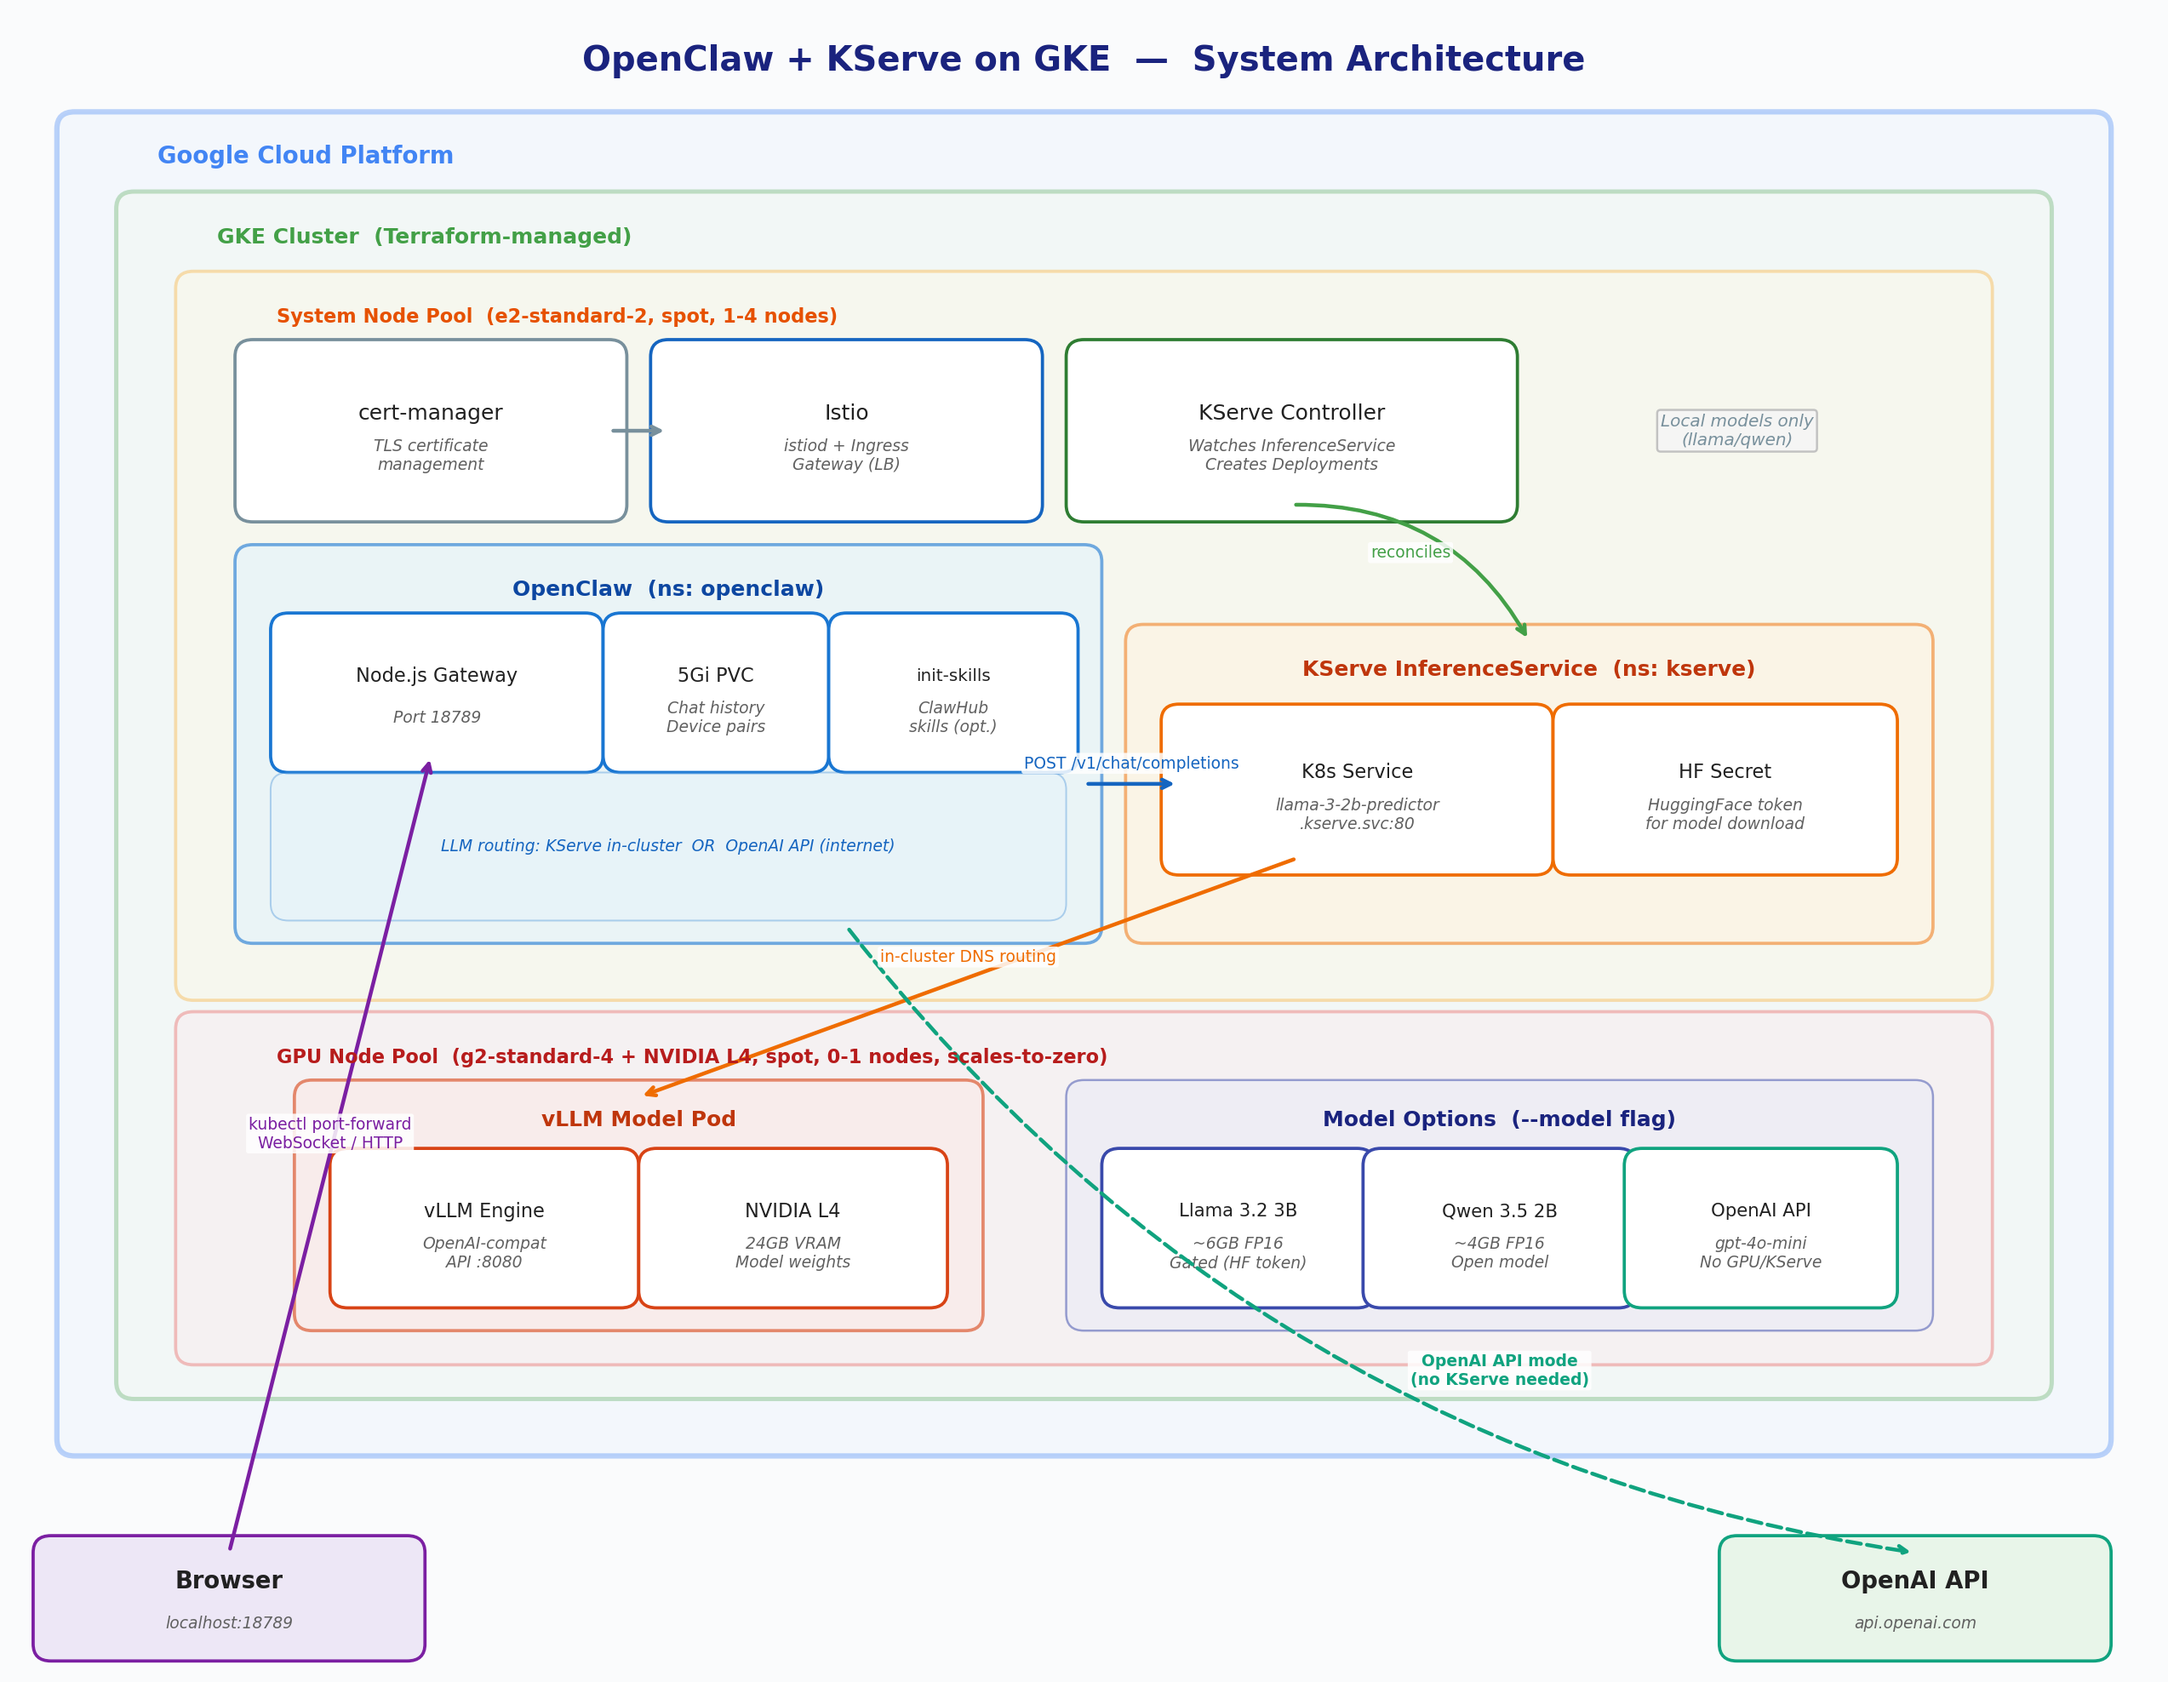
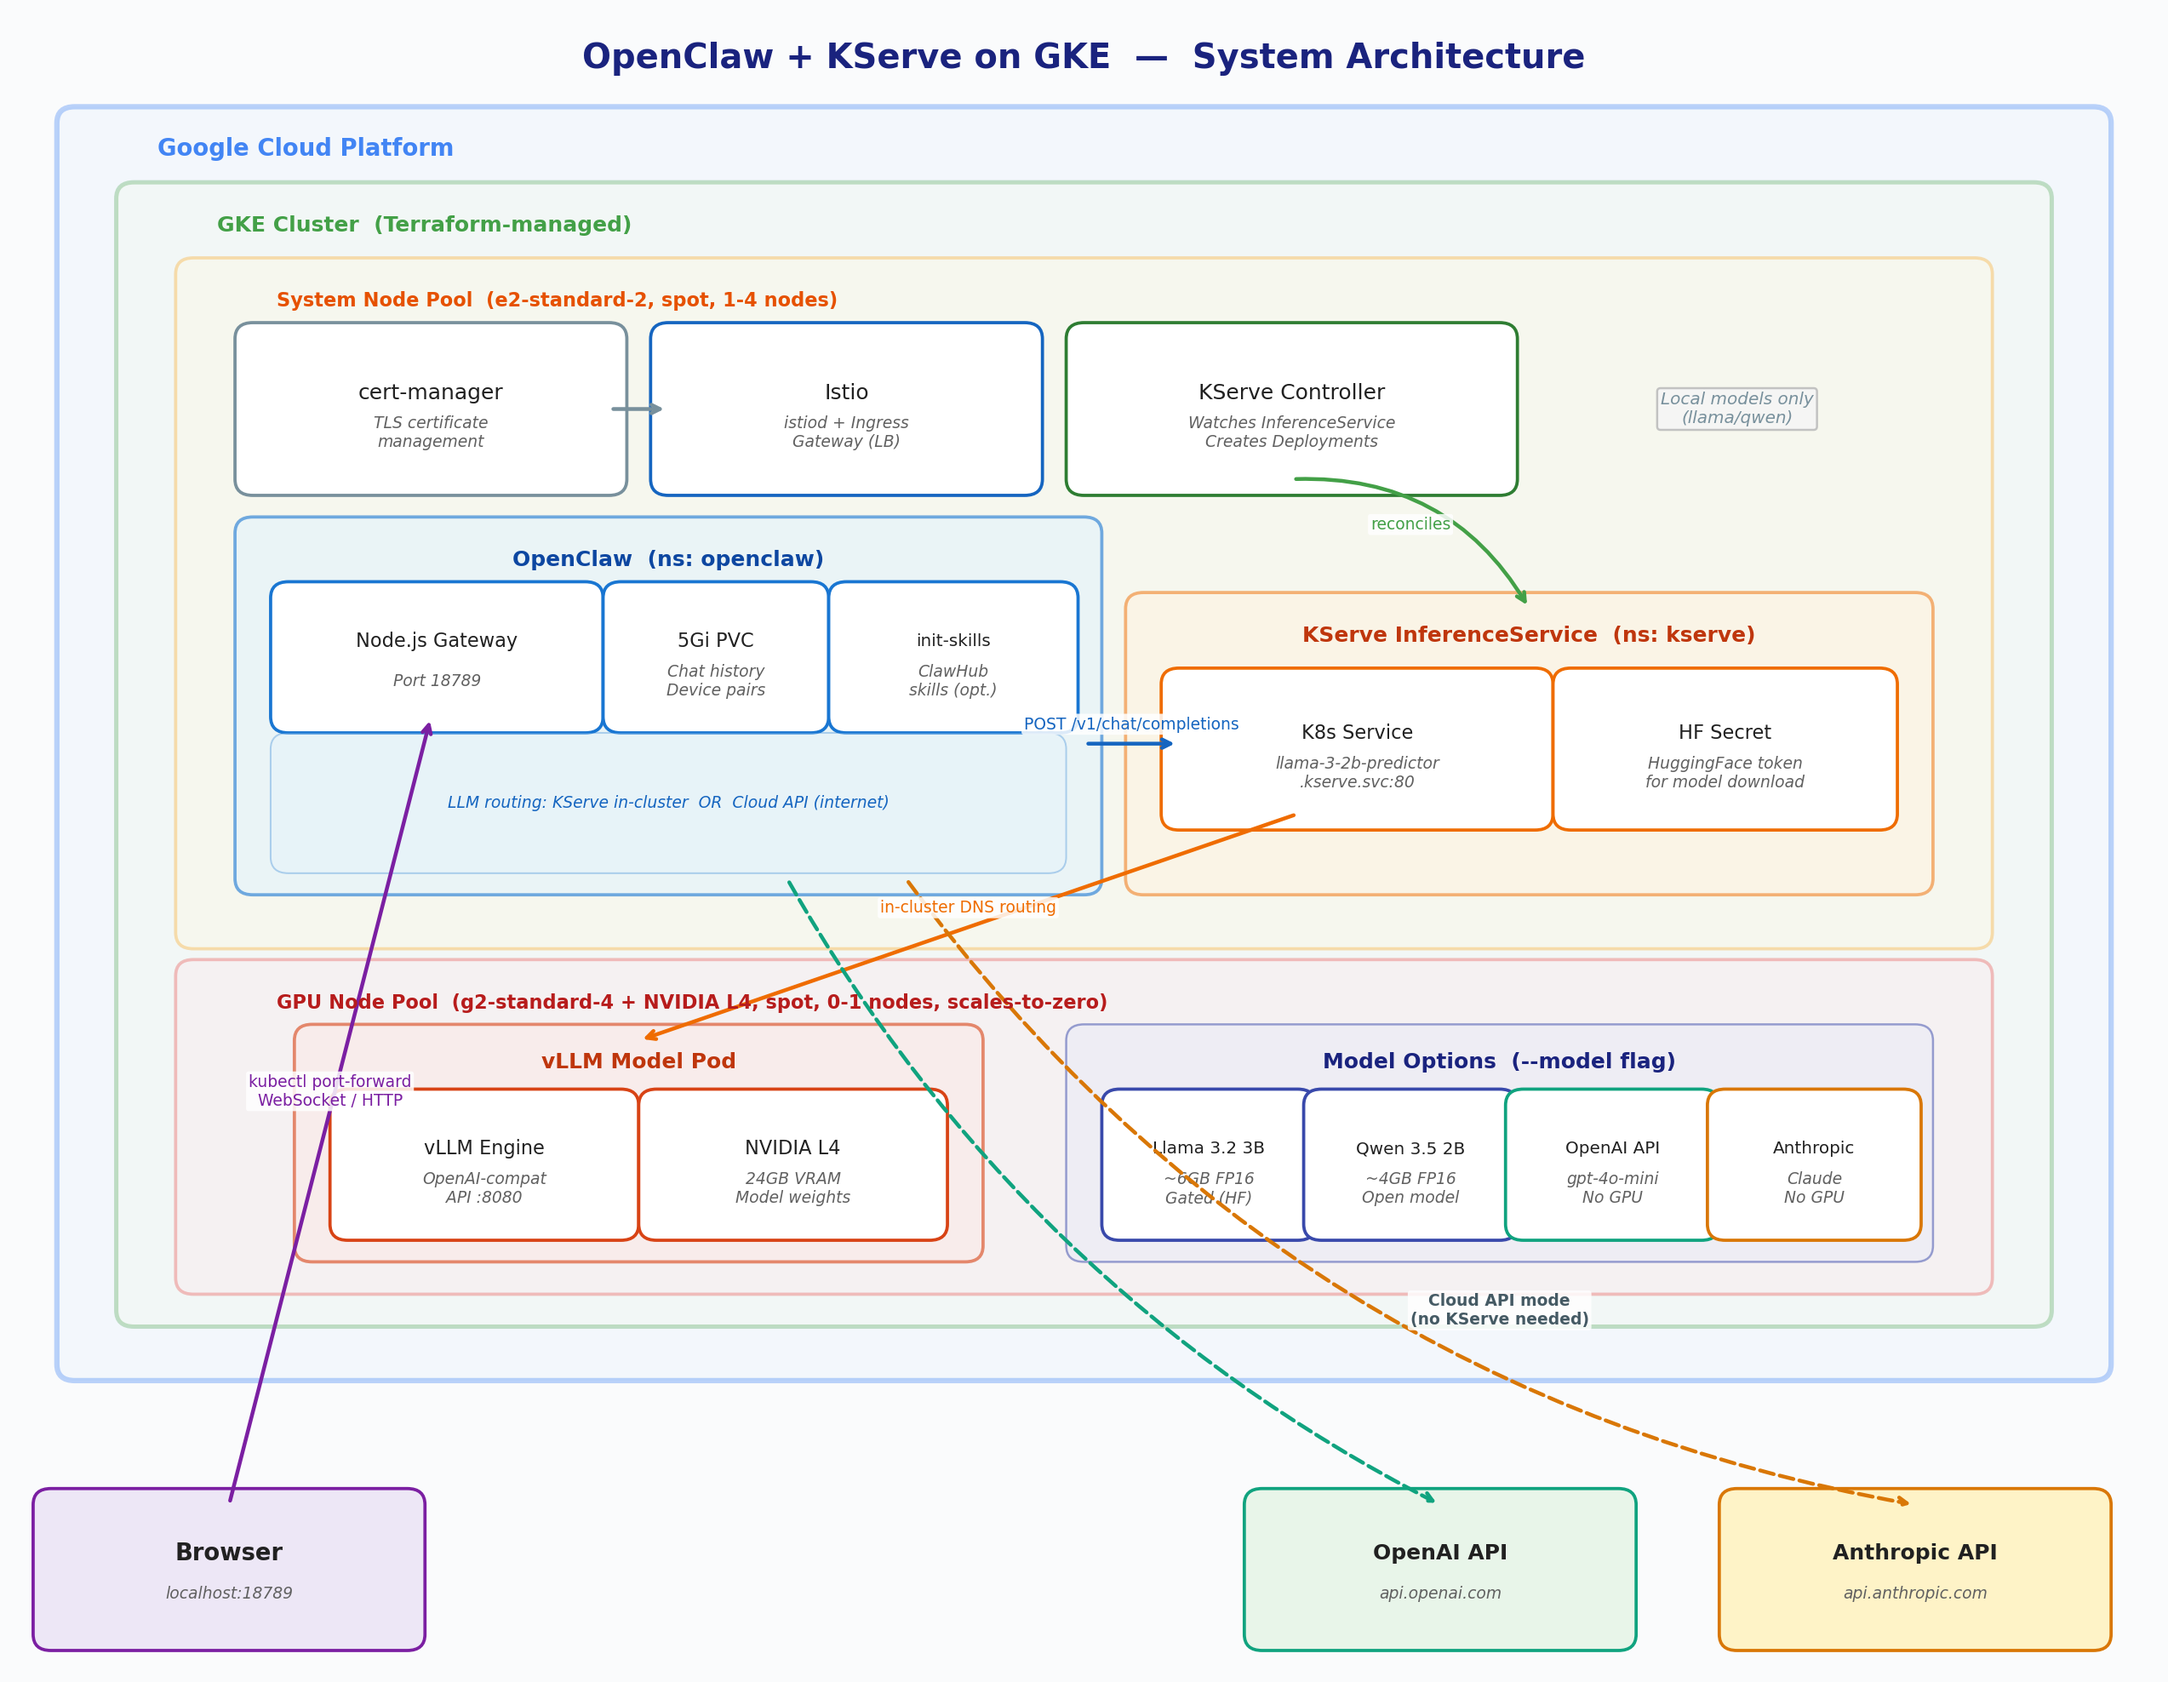
update architecture

Changed region(s): [[0.031, 0.0309, 0.9925, 0.9879], [0.7754, 0.2161, 0.8375, 0.2778], [0.4963, 0.3087, 0.5273, 0.3396]]

diff --git a/docs/draw_architecture.py b/docs/draw_architecture.py
@@ -9,7 +9,7 @@ from matplotlib.patches import FancyBboxPatch, FancyArrowPatch
 
 fig, ax = plt.subplots(1, 1, figsize=(18, 14))
 ax.set_xlim(0, 18)
-ax.set_ylim(-1.0, 13.5)
+ax.set_ylim(-1.8, 13.5)
 ax.axis("off")
 fig.patch.set_facecolor("#FAFBFC")
 
@@ -29,6 +29,7 @@ C_BROWSER  = "#EDE7F6"  # light purple
 C_ARROW    = "#455A64"  # dark grey
 C_TITLE    = "#1A237E"  # dark blue
 C_OPENAI   = "#10A37F"  # OpenAI green
+C_ANTHROPIC= "#D97706"  # Anthropic amber/orange
 
 
 def rounded_box(x, y, w, h, label, facecolor, edgecolor, lw=1.5,
@@ -134,7 +135,7 @@ rounded_box(7.0, 7.0, 1.8, 1.1, "init-skills", C_COMP, "#1976D2",
 # ── OpenClaw routing: two paths ──
 # Path label inside OpenClaw box
 rounded_box(2.3, 5.7, 6.4, 1.0, "", "#E3F2FD", "#1976D2", lw=0.8, alpha=0.3)
-ax.text(5.5, 6.2, "LLM routing: KServe in-cluster  OR  OpenAI API (internet)",
+ax.text(5.5, 6.2, "LLM routing: KServe in-cluster  OR  Cloud API (internet)",
         ha="center", va="center", fontsize=7.5, color="#1565C0", zorder=5,
         style="italic")
 
@@ -170,33 +171,38 @@ rounded_box(9.0, 2.1, 7.0, 1.9, "", "#E8EAF6", "#3949AB", lw=1, alpha=0.5)
 ax.text(12.5, 3.75, "Model Options  (--model flag)", fontsize=10,
         fontweight="bold", color="#1A237E", ha="center", zorder=5)
 
-rounded_box(9.3, 2.3, 2.0, 1.1, "Llama 3.2 3B", C_COMP, "#3949AB",
-            sublabel="~6GB FP16\nGated (HF token)", fontsize=8.5)
-rounded_box(11.5, 2.3, 2.0, 1.1, "Qwen 3.5 2B", C_COMP, "#3949AB",
-            sublabel="~4GB FP16\nOpen model", fontsize=8.5)
-rounded_box(13.7, 2.3, 2.0, 1.1, "OpenAI API", C_COMP, C_OPENAI,
-            sublabel="gpt-4o-mini\nNo GPU/KServe", fontsize=8.5)
+rounded_box(9.3, 2.3, 1.5, 1.1, "Llama 3.2 3B", C_COMP, "#3949AB",
+            sublabel="~6GB FP16\nGated (HF)", fontsize=8)
+rounded_box(11.0, 2.3, 1.5, 1.1, "Qwen 3.5 2B", C_COMP, "#3949AB",
+            sublabel="~4GB FP16\nOpen model", fontsize=8)
+rounded_box(12.7, 2.3, 1.5, 1.1, "OpenAI API", C_COMP, C_OPENAI,
+            sublabel="gpt-4o-mini\nNo GPU", fontsize=8)
+rounded_box(14.4, 2.3, 1.5, 1.1, "Anthropic", C_COMP, C_ANTHROPIC,
+            sublabel="Claude\nNo GPU", fontsize=8)
 
 # ═══════════════════════════════════════════════════════════════
 # Browser (outside cluster)
 # ═══════════════════════════════════════════════════════════════
-rounded_box(0.3, -0.8, 3.0, 0.8, "Browser", C_BROWSER, "#7B1FA2",
+rounded_box(0.3, -1.5, 3.0, 1.2, "Browser", C_BROWSER, "#7B1FA2",
             fontsize=11, fontweight="bold",
             sublabel="localhost:18789")
 
 # ═══════════════════════════════════════════════════════════════
-# OpenAI API (outside cluster)
+# Cloud APIs (outside cluster)
 # ═══════════════════════════════════════════════════════════════
-rounded_box(14.5, -0.8, 3.0, 0.8, "OpenAI API", "#E8F5E9", C_OPENAI,
-            fontsize=11, fontweight="bold",
+rounded_box(10.5, -1.5, 3.0, 1.2, "OpenAI API", "#E8F5E9", C_OPENAI,
+            fontsize=10, fontweight="bold",
             sublabel="api.openai.com")
+rounded_box(14.5, -1.5, 3.0, 1.2, "Anthropic API", "#FEF3C7", C_ANTHROPIC,
+            fontsize=10, fontweight="bold",
+            sublabel="api.anthropic.com")
 
 # ═══════════════════════════════════════════════════════════════
 # Arrows
 # ═══════════════════════════════════════════════════════════════
 
 # Browser → OpenClaw
-arrow(1.8, 0.0, 3.5, 7.0,
+arrow(1.8, -0.3, 3.5, 7.0,
       "kubectl port-forward\nWebSocket / HTTP", "#7B1FA2")
 
 # OpenClaw → K8s Service (KServe) — local model path
@@ -216,16 +222,27 @@ arrow(5.0, 9.85, 5.5, 9.85, "", "#78909C")
 
 # OpenClaw → OpenAI API (internet path) — dashed style
 ax.annotate(
-    "", xy=(16.0, 0.0), xytext=(7.0, 5.5),
+    "", xy=(12.0, -0.3), xytext=(6.5, 5.5),
     arrowprops=dict(
         arrowstyle="->", color=C_OPENAI, lw=1.8,
+        connectionstyle="arc3,rad=0.15",
+        linestyle="dashed",
+    ),
+    zorder=4,
+)
+
+# OpenClaw → Anthropic API (internet path) — dashed style
+ax.annotate(
+    "", xy=(16.0, -0.3), xytext=(7.5, 5.5),
+    arrowprops=dict(
+        arrowstyle="->", color=C_ANTHROPIC, lw=1.8,
         connectionstyle="arc3,rad=0.2",
         linestyle="dashed",
     ),
     zorder=4,
 )
-ax.text(12.5, 1.6, "OpenAI API mode\n(no KServe needed)", ha="center", va="center",
-        fontsize=7.5, color=C_OPENAI, zorder=5, fontweight="bold",
+ax.text(12.5, 1.5, "Cloud API mode\n(no KServe needed)", ha="center", va="center",
+        fontsize=7.5, color="#455A64", zorder=5, fontweight="bold",
         bbox=dict(boxstyle="round,pad=0.15", fc="#FFFFFF", ec="none", alpha=0.85))
 
 # ═══════════════════════════════════════════════════════════════

diff --git a/docs/architecture.md b/docs/architecture.md
@@ -119,7 +119,7 @@
  Total: ~15-25 minutes
 ```
 
-**OpenAI API mode (no KServe, no GPU):**
+**Cloud API mode — OpenAI / Anthropic (no KServe, no GPU):**
 
 ```
  ┌─────────────────────────────────────────────┐
@@ -131,13 +131,13 @@
                     │
                     │  Steps 2-3: Skipped
                     │  (KServe, Istio, cert-manager
-                    │   not needed for OpenAI API)
+                    │   not needed for cloud APIs)
                     ▼
  ┌─────────────────────────────────────────────┐
  │  Step 4: OpenClaw                           │
  │  install-openclaw.sh                        │
  │  → Helm install → Pod starts → Ready        │
- │  → Calls OpenAI API directly               │
+ │  → Calls cloud API directly                │
  │                                (~1-2 min)   │
  └─────────────────────────────────────────────┘
 
@@ -167,6 +167,12 @@
     │       ├── Endpoint: https://api.openai.com/v1
     │       └── No GPU needed ($0 infrastructure)
     │
+    ├── --model anthropic
+    │   └── Anthropic API (Claude Sonnet 4)
+    │       ├── Requires: ANTHROPIC_API_KEY
+    │       ├── Endpoint: https://api.anthropic.com/v1
+    │       └── No GPU needed ($0 infrastructure)
+    │
     └── --skills (optional, composable with any model)
         └── Adds init-skills init container
             ├── Installs ClawHub skills declaratively
@@ -183,9 +189,10 @@
     │  Model file provides the base config; overlays add features.
     │
     ├── Model files (pick one):
-    │   ├── values.yaml          → Llama 3.2 3B
-    │   ├── values-qwen.yaml     → Qwen 3.5 2B
-    │   └── values-openai.yaml   → OpenAI API
+    │   ├── values.yaml            → Llama 3.2 3B
+    │   ├── values-qwen.yaml       → Qwen 3.5 2B
+    │   ├── values-openai.yaml     → OpenAI API
+    │   └── values-anthropic.yaml  → Anthropic API
     │
     └── Overlays (optional, stack on top):
         └── values-skills.yaml   → ClawHub skills (init-skills container)
